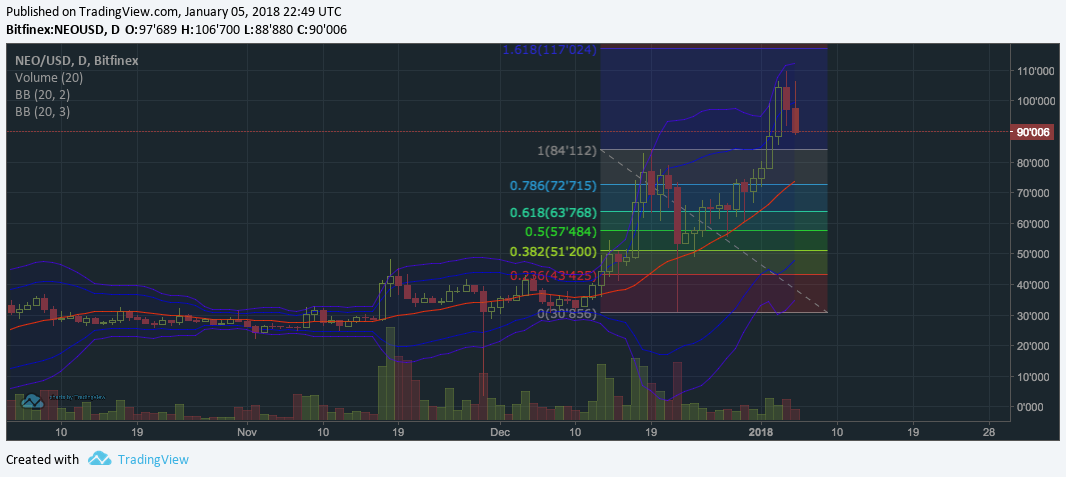
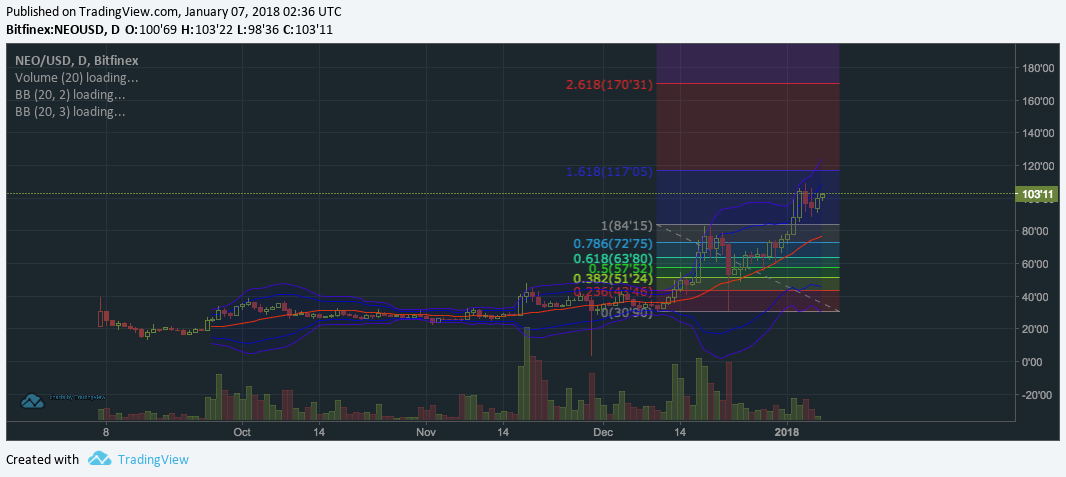
.

diff --git a/_fibs/daily.md b/_fibs/daily.md
@@ -1,7 +1,7 @@
 ---
 published: true
 date: 2017-12-27 10:36:00 +0100
-update: 2018-01-06 02:45:00 +0100
+update: 2018-01-07 03:58:00 +0100
 
 layout: fibs
 title: "Fib Levels for Crypto Markets"
@@ -17,19 +17,20 @@ name: "daily/"
 image: ["/features/fibs.jpeg"]
 
 dollars:
+- { market: "NEOUSD", chart: "/fibs/neousd.png", comment: "Bullish, now let's see if this current surge get's stopped by the fib or if it goes above and gets stopped by the bband. If it reverser at the fib it would make lower high relatively to the bbands which would be a weakness." }
+- { market: "ETHUSD", chart: "/fibs/ethusd.png", comment: "ETH is hanging in the middle of nowhere on the 1D but the bbands on 3H are tight, there will be some action soon - probably a bullish one." }
+- { market: "XRPUSD", chart: "/fibs/xrpusd.png", comment: "Consolidation. As with ETH - the bbands are tight and the bias is positive." }
+- { market: "BTCUSD", chart: "/fibs/btcusd.png", comment: "Not a good place to FOMO, bitcoin is still not past the resistances from the previous runup to 20k." }
+- { market: "IOTUSD", chart: "/fibs/iotusd.png", comment: "Another day of pretty much no action." }
 
-- { market: "ETHUSD", chart: "/fibs/ethusd.png", comment: "The surge on ETHUSD was too fast and got stopped by the bband. There could be one more push upwards but a retest of breakout wouldn't be surprising either." }
-- { market: "XRPUSD", chart: "/fibs/xrpusd.png", comment: "XRP hit the target of the correction - dropped to about $2.20, bounced with a proper bottom wick and currently sits at previous ATH. It should consolidate here for a bit, if it starts dropping more this might be it." }
-- { market: "BTCUSD", chart: "/fibs/btcusd.png", comment: "Bitcoin finally broke upwards. There is no fib here in the area around 17k but if you look closela at 4H candles from the runup to 20k you will see there is still plenty of resistance right where it's at now. It is still a risky situation especially for medium-term leveraged positions: even after the 17.9k fib the market could still decide to make a range on 1W and drop again." }
-- { market: "IOTUSD", chart: "/fibs/iotusd.png", comment: "Same as yesterday: Still positively curving up." }
-- { market: "NEOUSD", chart: "/fibs/neousd.png", comment: "NEO bounced from a weak-ish support at $88 during its retracement. Let's see if this was the bottom of the bull flag." }
 ratios:
-- { market: "ETHBTC", chart: "/fibs/ethbtc.png", comment: "With ETHUSD consolidating the ratio really took the hit but in fact at the moment it looks merely as throwback to resistance. " }
+- { market: "EOSBTC", chart: "/fibs/eosbtc.png", comment: "If you're watching the EOSBTC resistance area, the daily bbands are tightening as well. The markets are collectively in preparation for action." }
 ---
 
 
 > Relevant news for today
 
-* There are increasingly more calls for [exchanges to enable SegWit for bitcoin](https://www.reddit.com/r/Bitcoin/comments/7oaug2/dear_coinbase_i_want_to_know_when_can_i_start/?utm_source=altcointradingnet)
-* [David Sonstebo (IOTA) on how RaiBlocks is redundant](https://i.imgur.com/AvXMspp.jpg)
-* [Some fundamental sentiment on TRX](https://www.reddit.com/r/ethtrader/comments/7oa8lh/why_it_looks_like_trx_is_hyped_bullshit/)
+* [Kraken is getting on with their upgrade at last](https://www.reddit.com/r/BitcoinMarkets/comments/7oldkv/psa_kraken_is_carrying_out_a_system_upgrade_on/)
+* [Someone read the TRON whitepaper and had to warn others](https://www.reddit.com/r/CryptoCurrency/comments/7o85ld/i_just_read_trons_whitepaper_it_raises_more_red/)
+* [The TRON founder sold his tokens](https://www.reddit.com/r/ethtrader/comments/7oh01s/trx_tron_founder_justin_sun_sold_6billion_tron/)
+* [Some fundamental sentiment](https://i.imgur.com/8tQEo11.mp4)
